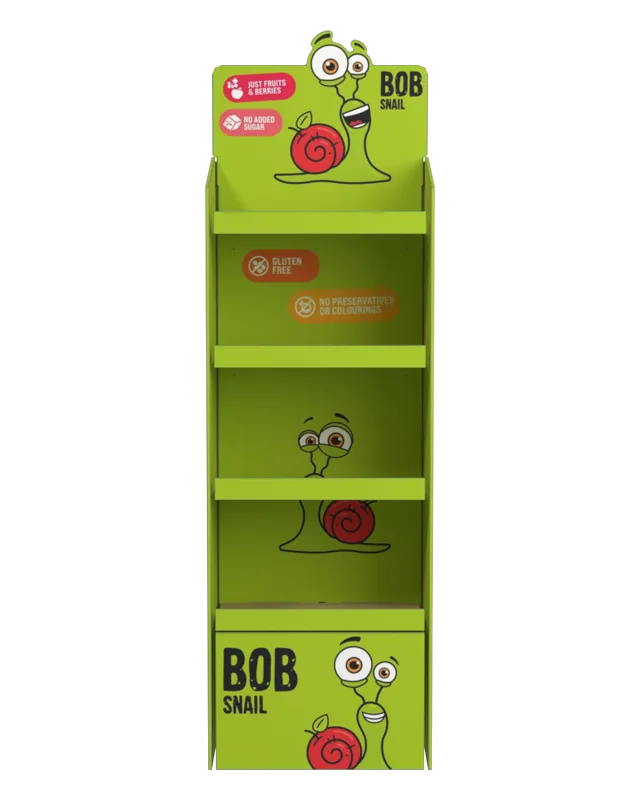
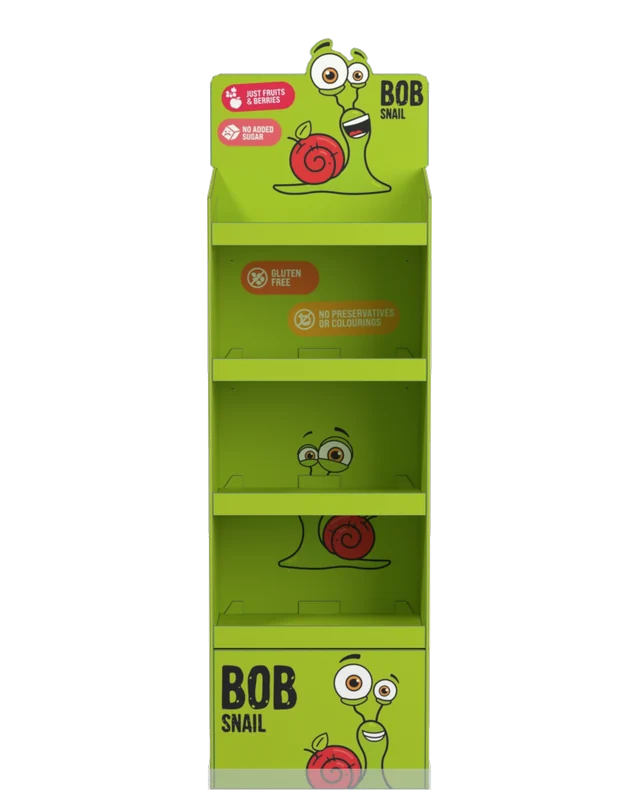
Recently delivered: three stands (Alpro added) in a carousel of current 3D views - side, front, back
Claude-Session: https://claude.ai/code/session_014jnMN9trVevUMDHf4ZaXVS

Changed region(s): [[0.3125, 0.0312, 0.6875, 1.0]]

diff --git a/src/styles/main.css b/src/styles/main.css
@@ -2943,25 +2943,22 @@ li {
 
 .cases-grid {
   display: grid;
-  grid-template-columns: repeat(2, 1fr);
+  grid-template-columns: repeat(3, 1fr);
   gap: 18px;
 }
 
 .case {
   display: grid;
-  grid-template-columns: 1fr 1fr;
-  align-items: center;
+  grid-template-rows: auto 1fr;
   overflow: hidden;
   border-radius: var(--radius);
   background: var(--surface);
   box-shadow: inset 0 0 0 1px var(--line);
-  cursor: pointer;
-  outline-offset: 4px;
+  transition: box-shadow 0.3s var(--ease);
 }
 
 .case:hover,
-.case:focus-visible,
-.case.is-flipped {
+.case:focus-within {
   box-shadow:
     inset 0 0 0 1px var(--blue-bright),
     var(--shadow);
@@ -2975,6 +2972,8 @@ li {
     radial-gradient(circle at 50% 35%, #fff, transparent 65%),
     linear-gradient(160deg, var(--blue-soft), #eceaff);
   perspective: 900px;
+  touch-action: pan-y;
+  user-select: none;
 }
 
 .case-img {
@@ -2983,28 +2982,95 @@ li {
   width: 100%;
   height: 90%;
   object-fit: contain;
+  opacity: 0;
+  transform: rotateY(-25deg) scale(0.96);
   transition:
     opacity 0.5s var(--ease),
     transform 0.7s var(--ease);
+  pointer-events: none;
 }
 
-.case-b {
-  opacity: 0;
-  transform: rotateY(-25deg) scale(0.96);
-}
-
-.case:hover .case-a,
-.case:focus-visible .case-a,
-.case.is-flipped .case-a {
-  opacity: 0;
-  transform: rotateY(25deg) scale(0.96);
-}
-
-.case:hover .case-b,
-.case:focus-visible .case-b,
-.case.is-flipped .case-b {
+.case-img.is-active {
   opacity: 1;
   transform: none;
+}
+
+.case-nav {
+  position: absolute;
+  top: 50%;
+  translate: 0 -50%;
+  width: 40px;
+  height: 40px;
+  border: 0;
+  border-radius: 50%;
+  background: color-mix(in srgb, var(--surface) 88%, transparent);
+  box-shadow: 0 2px 10px rgba(11, 37, 64, 0.18);
+  color: var(--ink, #0b2540);
+  font: 700 1.5rem/1 var(--display);
+  cursor: pointer;
+  opacity: 0.85;
+  transition: opacity 0.2s, scale 0.2s;
+}
+
+.case-nav:hover,
+.case-nav:focus-visible {
+  opacity: 1;
+  scale: 1.08;
+}
+
+.case-prev {
+  left: 10px;
+}
+
+.case-next {
+  right: 10px;
+}
+
+.case-dots {
+  position: absolute;
+  left: 50%;
+  bottom: 12px;
+  translate: -50% 0;
+  display: flex;
+  gap: 8px;
+}
+
+.case-dot {
+  width: 10px;
+  height: 10px;
+  padding: 0;
+  border: 0;
+  border-radius: 50%;
+  background: rgba(11, 37, 64, 0.25);
+  cursor: pointer;
+  transition: background 0.2s, width 0.3s var(--ease);
+}
+
+.case-dot.is-active {
+  width: 24px;
+  border-radius: 5px;
+  background: var(--blue-bright);
+}
+
+.case-view {
+  position: absolute;
+  top: 12px;
+  left: 12px;
+  padding: 3px 10px;
+  border-radius: 999px;
+  background: color-mix(in srgb, var(--surface) 85%, transparent);
+  font-size: 0.75rem;
+  font-weight: 800;
+  letter-spacing: 0.06em;
+  text-transform: uppercase;
+  color: var(--muted);
+}
+
+@media (prefers-reduced-motion: reduce) {
+  .case-img {
+    transition: none;
+    transform: none;
+  }
 }
 
 .case-info {
@@ -3050,6 +3116,12 @@ li {
 @media (max-width: 920px) {
   .cases-grid {
     grid-template-columns: 1fr;
+  }
+
+  .case {
+    grid-template-columns: 1fr 1fr;
+    grid-template-rows: none;
+    align-items: center;
   }
 }
 

diff --git a/src/main.js b/src/main.js
@@ -162,11 +162,49 @@ if (proj) {
   if (auto) requestAnimationFrame(loop);
 }
 
-// ---------- Delivered stands: tap or Enter shows the other view ----------
-document.querySelectorAll(".case").forEach((c) => {
-  const flip = () => c.classList.toggle("is-flipped");
-  c.addEventListener("click", flip);
-  c.addEventListener("keydown", (e) => (e.key === "Enter" || e.key === " ") && (e.preventDefault(), flip()));
+// ---------- Delivered stands: carousel of the 3D views (arrows, dots, swipe, auto-advance while visible) ----------
+const still = window.matchMedia("(prefers-reduced-motion: reduce)").matches;
+document.querySelectorAll("[data-carousel]").forEach((c) => {
+  const imgs = [...c.querySelectorAll(".case-img")];
+  const dots = [...c.querySelectorAll(".case-dot")];
+  const label = c.querySelector(".case-view");
+  let at = 0;
+  let timer = null;
+  const go = (k) => {
+    at = (k + imgs.length) % imgs.length;
+    imgs.forEach((im, j) => {
+      im.classList.toggle("is-active", j === at);
+      im.toggleAttribute("aria-hidden", j !== at);
+    });
+    dots.forEach((d, j) => {
+      d.classList.toggle("is-active", j === at);
+      d.setAttribute("aria-current", String(j === at));
+    });
+    if (label) label.textContent = dots[at]?.getAttribute("aria-label") || "";
+  };
+  const stop = () => {
+    clearInterval(timer);
+    timer = null;
+  };
+  const start = () => {
+    if (still || timer) return;
+    timer = setInterval(() => go(at + 1), 3500);
+  };
+  c.querySelector(".case-prev").addEventListener("click", () => (stop(), go(at - 1)));
+  c.querySelector(".case-next").addEventListener("click", () => (stop(), go(at + 1)));
+  dots.forEach((d, j) => d.addEventListener("click", () => (stop(), go(j))));
+  let x0 = null;
+  c.addEventListener("pointerdown", (e) => (x0 = e.clientX));
+  c.addEventListener("pointerup", (e) => {
+    if (x0 !== null && Math.abs(e.clientX - x0) > 40) (stop(), go(at + (e.clientX < x0 ? 1 : -1)));
+    x0 = null;
+  });
+  c.addEventListener("keydown", (e) => {
+    if (e.key === "ArrowRight") (stop(), go(at + 1));
+    if (e.key === "ArrowLeft") (stop(), go(at - 1));
+  });
+  c.addEventListener("mouseenter", stop);
+  new IntersectionObserver(([en]) => (en.isIntersecting ? start() : stop()), { threshold: 0.4 }).observe(c);
 });
 
 // ---------- Copy e-mail ----------

diff --git a/tests/site.spec.js b/tests/site.spec.js
@@ -243,10 +243,10 @@ test.describe("content rules", () => {
     }
   });
 
-  test("recently delivered: two stands with real renders and their facts; tap shows the other view", async ({ page }) => {
+  test("recently delivered: three stands, a carousel of real 3D views with their facts", async ({ page }) => {
     await page.goto("");
     const cases = page.locator(".case");
-    await expect(cases).toHaveCount(2);
+    await expect(cases).toHaveCount(3);
     await cases.first().scrollIntoViewIfNeeded();
     for (const img of await page.locator(".case-img").all()) {
       await img.scrollIntoViewIfNeeded();
@@ -254,8 +254,14 @@ test.describe("content rules", () => {
     }
     await expect(cases.first()).toContainText("477 × 306 × 1575");
     await expect(cases.nth(1)).toContainText("620 × 253 × 1648");
-    await cases.first().click();
-    await expect(cases.first()).toHaveClass(/is-flipped/);
+    await expect(cases.nth(2)).toContainText("429 × 265 × 1772");
+    const first = cases.first();
+    await expect(first.locator(".case-img.is-active")).toHaveCount(1);
+    const before = await first.locator(".case-img.is-active").getAttribute("src");
+    await first.locator(".case-next").click();
+    await expect.poll(() => first.locator(".case-img.is-active").getAttribute("src")).not.toBe(before);
+    await first.locator(".case-dot").nth(2).click();
+    await expect(first.locator(".case-img.is-active")).toHaveAttribute("src", /-back\.webp$/);
   });
 
   test("legal pages name the operator (POSMTRADE) with a contact and a date", async ({ page }) => {

diff --git a/AGENTS.md b/AGENTS.md
@@ -27,7 +27,7 @@ and to anyone working here by hand.
 | Colours, fonts, spacing, animations | `src/styles/main.css` (colours are tokens on `:root`) |
 | Product illustrations (services cards, projects) | isometric 3D scenes in `build/scenes.mjs` (renderer `build/iso.mjs`), mapped to keys in `build/icons.mjs` (key = `icon` in the JSON). Owner wants them detailed like the 3D stand, never flat schematic icons |
 | Automation section (task cards, call to action) | `agents` in the three JSON files; icons in `build/agent-icons.mjs` (key = `icon`) |
-| Recently delivered stands | `projects.showcase` in the JSON files; images `public/projects/<key>-hero.webp` and `-front.webp` (renders from `~/Data/Posmtrade/Znalosti/zlata-sada/<project>/render_*.png`, cropped, 640×800 WebP) |
+| Recently delivered stands (carousel) | `projects.showcase` in the JSON files (`views`, `prev`, `next` = carousel labels); images `public/projects/<key>-right.webp`, `-front.webp`, `-back.webp` (the three views of Макетчик's client sheet 2, cropped, transparent, 640×800 WebP) |
 | Operator block of the legal pages | end of `src/content/legal/<lang>-<page>.html` (`legal-operator`) |
 | Page layout, sections, die-line drawing | `build/render.mjs` |
 | Rotating 3D stand in the hero (owner likes it – keep) | `src/stand3d.js` |
